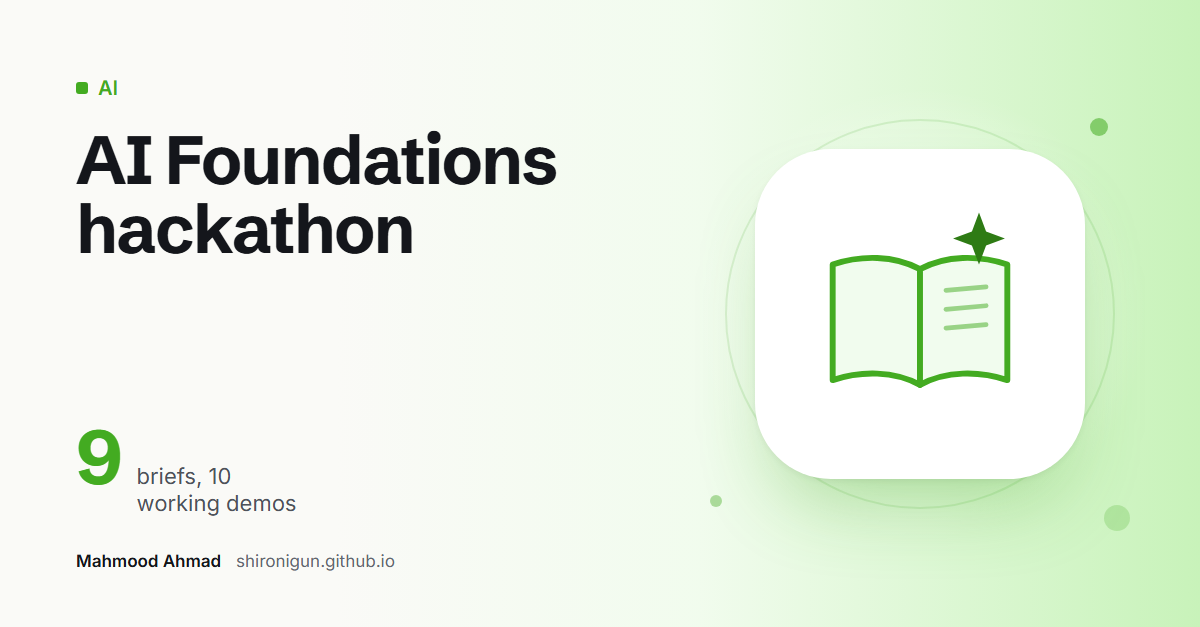
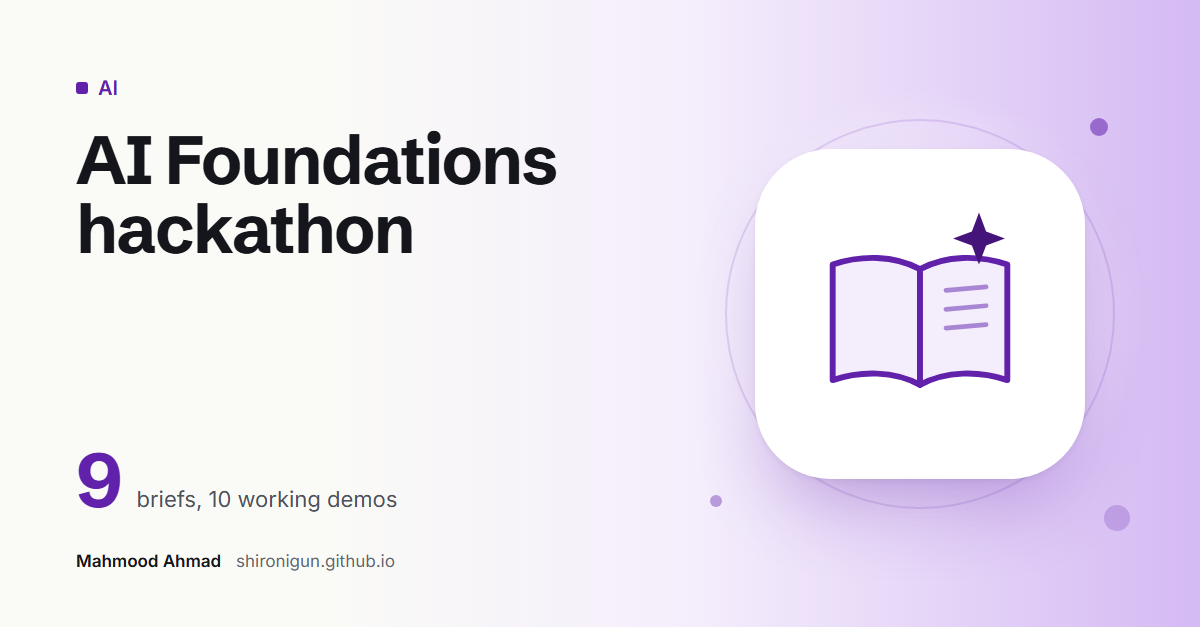
Preview cards: hand-picked distinct colours for the LinkedIn projects

diff --git a/src/pages/OgPictures.jsx b/src/pages/OgPictures.jsx
@@ -308,10 +308,20 @@ const MAP = {
 // Every project gets its own colour: 31 hues spread around the wheel, ordered so that projects
 // next to each other in the list land far apart. Postman keeps its orange.
 const SLUGS = Object.keys(MAP);
+// Hand-picked hues for the projects shown together on LinkedIn, so neighbours there differ clearly.
+const PICKED = {
+  'feature-guides': 320, // magenta
+  'ai-evaluation': 172, // teal
+  'ai-qa-workbench': 222, // blue
+  'claude-marketplace': 140, // green
+  'ai-foundations-hackathon': 268, // violet
+  beacon: 0, // red
+  'hackathon-2025': 192, // cyan
+};
 function colourFor(slug) {
   if (slug === 'postman-evaluation') return PALETTE.postman;
   const i = Math.max(0, SLUGS.indexOf(slug));
-  const hue = Math.round(((i * 13) % SLUGS.length) * (360 / SLUGS.length) + 210) % 360;
+  const hue = slug in PICKED ? PICKED[slug] : Math.round(((i * 13) % SLUGS.length) * (360 / SLUGS.length) + 210) % 360;
   const light = hue >= 40 && hue <= 100 ? 31 : 40; // yellows need more depth to read as text
   return [`hsl(${hue} 68% ${light}%)`, `hsl(${hue} 70% 96%)`, `hsl(${hue} 72% ${light - 12}%)`, `hsl(${hue} 70% 84%)`];
 }

diff --git a/public/labs/skills-evals-lab.html b/public/labs/skills-evals-lab.html
@@ -9,7 +9,7 @@
 <meta property="og:title" content="Skills Evals Lab: a 17-lesson course on testing AI skills">
 <meta property="og:description" content="A beginner course on testing AI skills: 17 lessons, about three hours and six hands-on labs. A case counts only when it passes 3 runs of 3.">
 <meta property="og:url" content="https://shironigun.github.io/labs/skills-evals-lab.html">
-<meta property="og:image" content="https://shironigun.github.io/images/previews/ai-evaluation.png?v=2026-11-21c">
+<meta property="og:image" content="https://shironigun.github.io/images/previews/ai-evaluation.png?v=2026-11-21d">
 <meta property="og:image:width" content="1200">
 <meta property="og:image:height" content="627">
 <meta name="twitter:card" content="summary_large_image">

diff --git a/src/components/ProjectCard.jsx b/src/components/ProjectCard.jsx
@@ -4,7 +4,7 @@ import styles from './ProjectCard.module.css';
 
 // Each project's preview card (public/images/previews, made by scripts/og-images.mjs): the same
 // picture people see when a link to the project is shared.
-export const previewOf = (p) => `/images/previews/${p.slug}.png?v=2026-11-21c`;
+export const previewOf = (p) => `/images/previews/${p.slug}.png?v=2026-11-21d`;
 
 // One card design for every case study, on Home and on the case studies page.
 export default function ProjectCard({ project }) {
